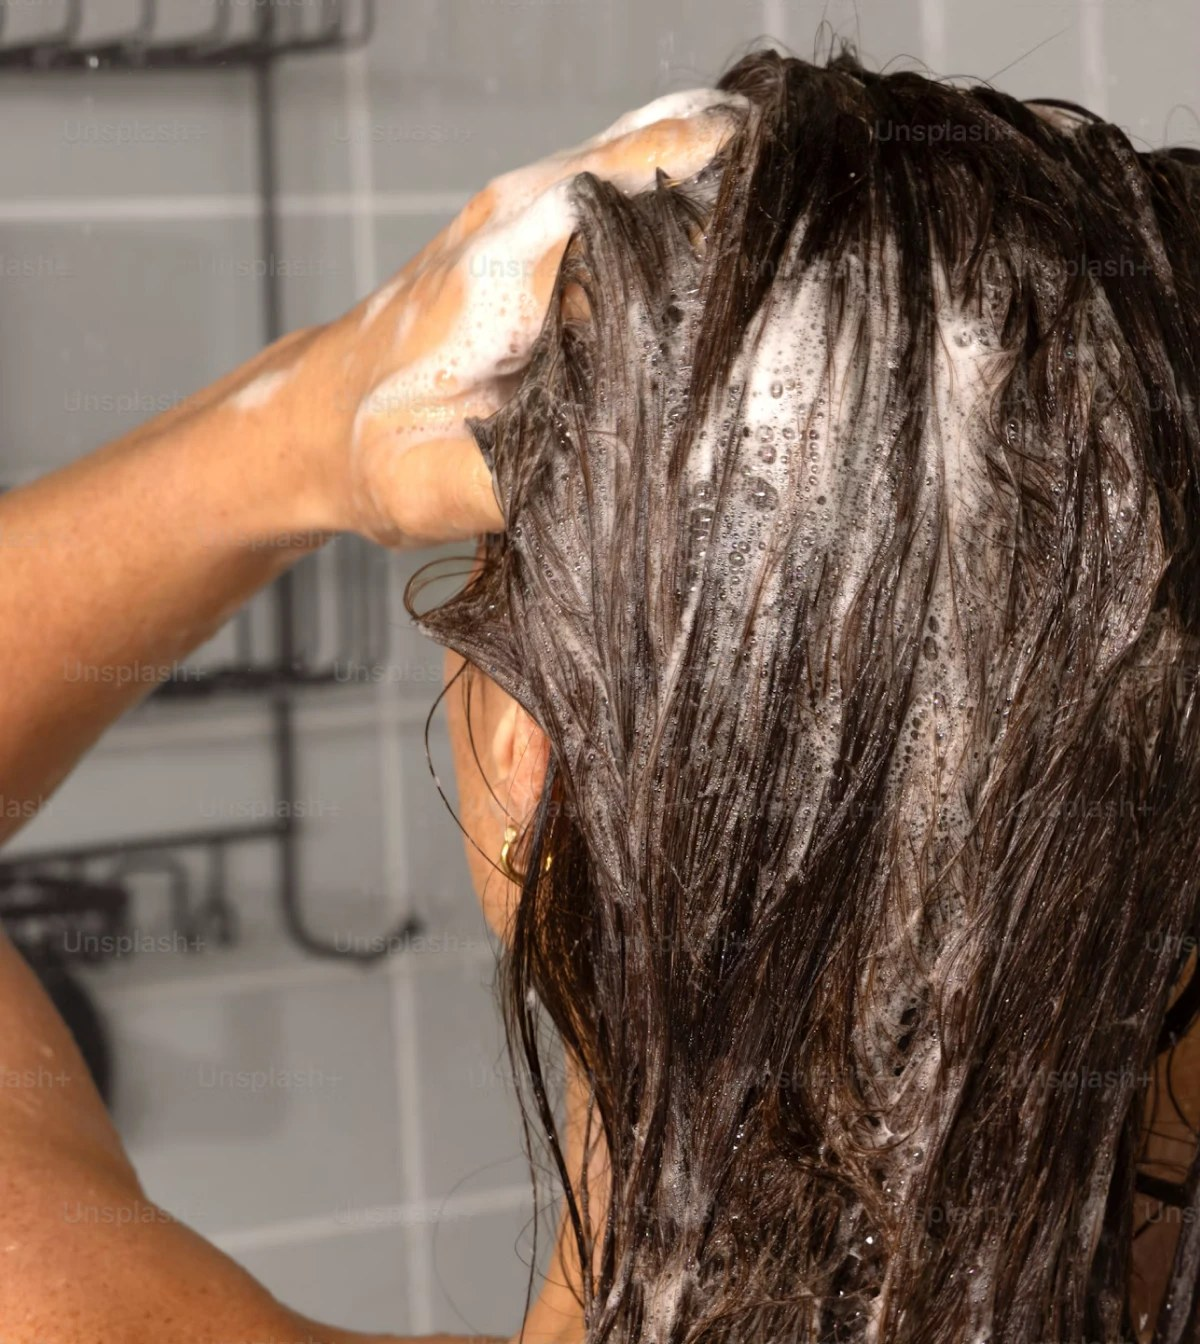
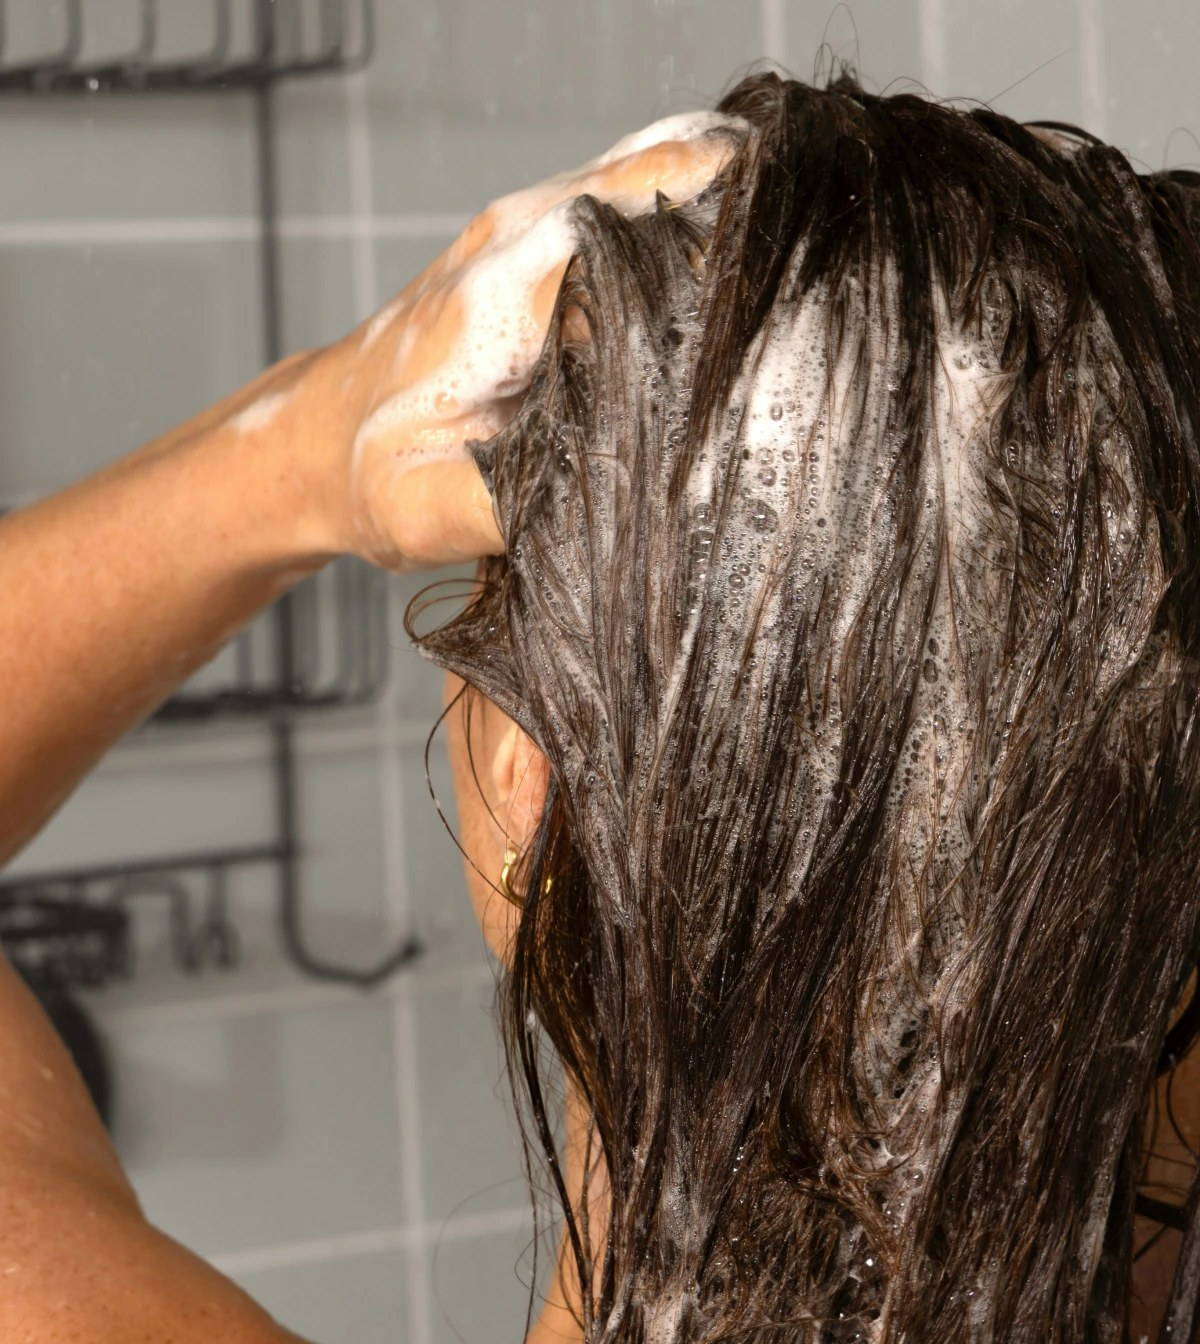
Swap How to use photo, tweak copy and fix overflows
Replace the How to use photo with the clean, watermark-free version,
update the step 2 and intro copy, put the heading on one line, drop
the divider under step 3, add top padding on mobile, remove the
Ingredients footer link, and let the benefits band columns shrink so
they can't overflow windows narrower than about 1180px.

diff --git a/styles.css b/styles.css
@@ -209,7 +209,7 @@ a { color: inherit; text-decoration: none; }
 }
 .benefits-grid {
   display: grid;
-  grid-template-columns: repeat(3, 1fr);
+  grid-template-columns: repeat(3, minmax(0, 1fr));
   gap: 0;
 }
 .benefit {
@@ -217,6 +217,7 @@ a { color: inherit; text-decoration: none; }
   border-left: 1px solid rgba(236, 230, 215, 0.14);
 }
 .benefit:first-child { border-left: none; }
+.benefit { min-width: 0; }
 .benefit-num {
   font-size: 14px;
   color: #B9836F;
@@ -327,7 +328,7 @@ a { color: inherit; text-decoration: none; }
 }
 .how-lead {
   color: var(--ink-muted);
-  max-width: 480px;
+  max-width: 550px;
 }
 .steps {
   list-style: none;
@@ -342,6 +343,7 @@ a { color: inherit; text-decoration: none; }
   align-items: baseline;
 }
 .steps li:first-child { padding-top: 8px; }
+.steps li:last-child { border-bottom: none; }
 .step-num {
   font-size: 14px;
   color: #B9836F;
@@ -656,6 +658,7 @@ a { color: inherit; text-decoration: none; }
   .benefit { border-left: none; border-top: 1px solid rgba(236,230,215,0.14); }
   .benefit:first-child { border-top: none; }
   .how-grid { grid-template-columns: minmax(0, 1fr); gap: 40px; }
+  .how-to-use { padding-top: 40px; }
   .how-content { padding: 40px 0; }
   .key-ingredients-grid { grid-template-columns: repeat(2, 1fr); }
   .faq-grid { grid-template-columns: 1fr; gap: 24px; }

diff --git a/index.html b/index.html
@@ -173,8 +173,8 @@
       <div class="how-content">
         <div class="how-copy">
           <p class="eyebrow">How to use</p>
-          <h2>Three steps,<br>two minutes</h2>
-          <p class="how-lead">Use it in place of your conditioner, or after it if your lengths need more.</p>
+          <h2>Three steps, two minutes</h2>
+          <p class="how-lead">It fits right into your wash routine. No long wait times, no schedules to keep track of, no extra steps to remember.</p>
         </div>
         <ol class="steps">
           <li>
@@ -183,7 +183,7 @@
           </li>
           <li>
             <span class="step-num">Step 2</span>
-            <span class="step-text">Massage in and leave for 2–3 minutes.</span>
+            <span class="step-text">Massage in and leave for 2–3 minutes while you finish your shower.</span>
           </li>
           <li>
             <span class="step-num">Step 3</span>
@@ -311,8 +311,6 @@
   <div class="wrap footer-inner">
     <span class="logo">nollis</span>
     <nav class="footer-nav">
-      <a href="#ingredients">Ingredients</a>
-      <span class="dot">·</span>
       <a href="#">Delivery</a>
       <span class="dot">·</span>
       <a href="#">Returns</a>
